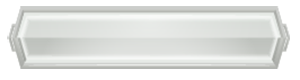
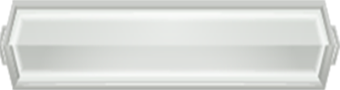
changes done

diff --git a/src/index.css b/src/index.css
@@ -124,7 +124,7 @@ button.btn:disabled {
   width: 100%;
   height: 88px;
   background-image: url(/src/assets/option_blank.png);
-  background-size: cover;
+  background-size: contain;
   background-position: center;
   color: #662d91;
   border: none;
@@ -135,6 +135,29 @@ button.btn:disabled {
   background-repeat: no-repeat;
   padding: 8px 27px;
   line-height: 16px;
+}
+.ansBtn2 {
+  width: 100%;
+  height: 100px;
+  background-image: url(/src/assets/option_blank2.png);
+  background-size: contain;
+  background-position: center;
+  color: #662d91;
+  border: none;
+  border-radius: 8px;
+  cursor: pointer;
+  transition: background-color 0.3s, opacity 0.3s;
+  position: relative;
+  background-repeat: no-repeat;
+  padding: 8px 27px;
+  line-height: 16px;
+}
+
+  .ansBtn2 span {
+    font-size: 14px;
+    position: relative;
+    top: -2px;
+
 }
 /* .ansBtn:hover:not(:disabled) {
     opacity: 0.8;
@@ -255,8 +278,8 @@ button.btn:disabled {
   text-align: left;
 }
 .okBtn {
-  width: 215px;
-  height: 82px;
+  width: 182px;
+  height: 69px;
   background-image:url("./assets/nextBtn.png");
   overflow: hidden;
   text-indent: -9999px;

diff --git a/src/pages/QuestionList.jsx b/src/pages/QuestionList.jsx
@@ -88,7 +88,7 @@ const QuestionList = () => {
             </div>
           </div>
           {questions.length > 0 && !gameOver && (
-            <div className="text-center font-extrabold text-[#38013a] text-xl px-4 leading-6">
+            <div className="text-center font-bold text-[#6400A0] text-2xl px-4 py-8  leading-6">
               {questions[currentQuestion].question}
             </div>
           )}

diff --git a/src/pages/Survey.jsx b/src/pages/Survey.jsx
@@ -49,7 +49,7 @@ const Survey = () => {
                 <button
                   key={index}
                   onClick={() => handleOptionSelect(index)}
-                  className={`ansBtn ${
+                  className={`ansBtn2 ${
                     selectedOptions.includes(index) ? "selected" : ""
                   }`}
                   data-personality={option.personality}
